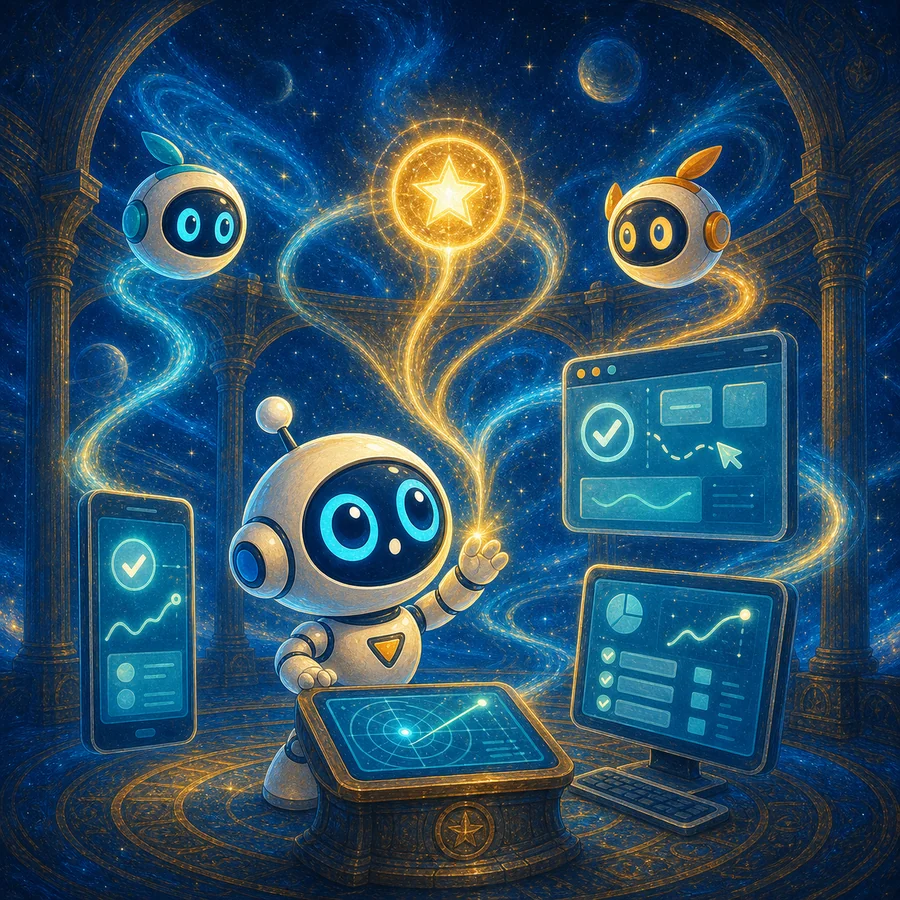
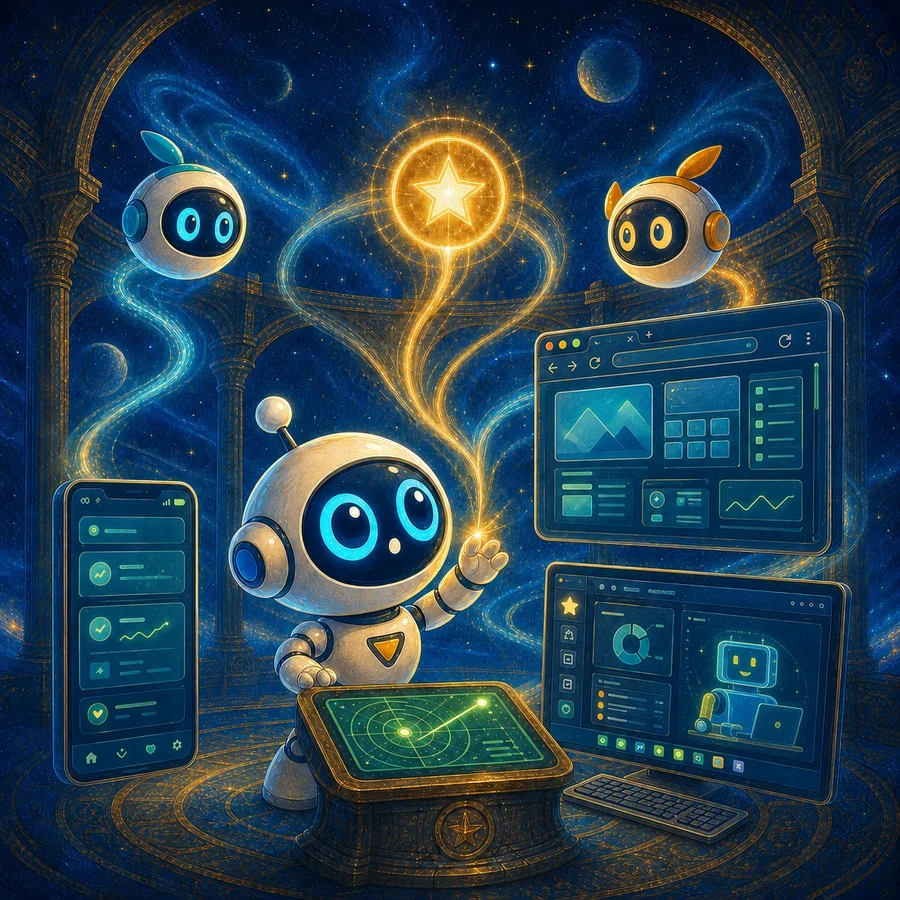
Swap in new key art

diff --git a/open_items.md b/open_items.md
@@ -94,11 +94,15 @@ derivatives together (favicon 16/32/512, `favicon.ico`, `apple-touch-icon`
 and the `logos/OS-Shepherd.png` family mark).
 
 ### B3 — Cover art **NOTE**
-`public/cover.png` / `.webp` are 900×900 quantised exports of
-`figure/resources/osreward-cover.png` (gitignored). Favicons and the social card
-are crops of the same file, all generated from the gitignored original with
-PIL: 900x900 `quantize(224)` for the cover, a border flood-fill for the brand
-mark's background, and a 1200x630 composite for the social card.
+`public/cover.png` / `.webp` are 900×900 exports of
+`figure/resources/cover-2.jpg` (gitignored; it replaced the original
+`osreward-cover.png` on 2026-07-29). The social card is a 1200×630 composite of
+the same file. All of it is rebuilt by `python3 figure/build_cover_assets.py`,
+which also keeps the card's colours in step with the CSS `:root` tokens.
+
+The **favicons are not** built from the cover — they come from the OS-Shepherd
+brand mark (B2). An earlier version of this note claimed otherwise; corrected
+2026-07-29. Changing the key art therefore does *not* require regenerating them.
 
 ---
 
